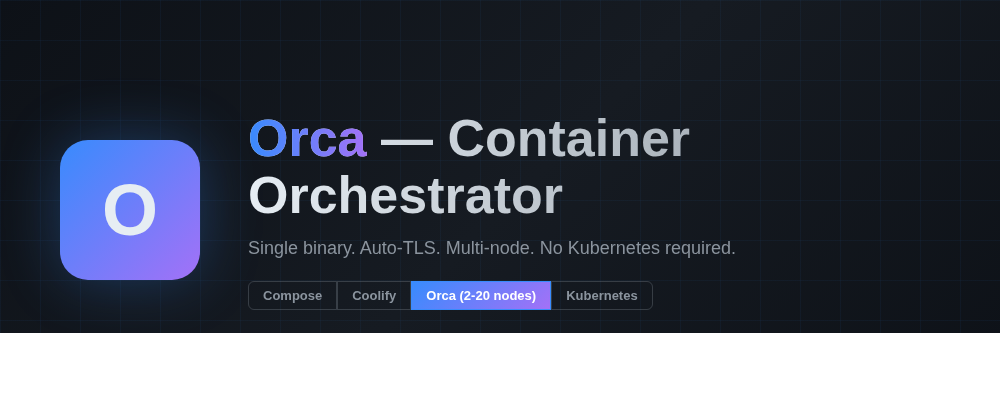
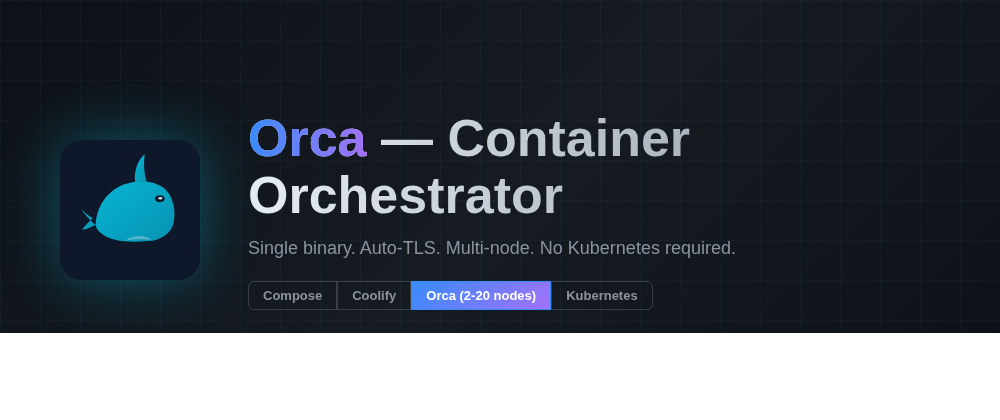
chore: add CLI backlog — multi-arg commands, auto-completion, remote redeploy routing

Changed region(s): [[0.062, 0.3095, 0.217, 0.681]]

diff --git a/assets/cover-devto.html b/assets/cover-devto.html
@@ -26,12 +26,11 @@
   }
   .logo {
     width: 140px; height: 140px;
-    background: linear-gradient(135deg, #388bfd, #a371f7);
-    border-radius: 28px;
-    display: flex; align-items: center; justify-content: center;
-    font-size: 72px; font-weight: 800;
     flex-shrink: 0;
-    box-shadow: 0 0 60px rgba(56,139,253,0.3);
+    filter: drop-shadow(0 0 30px rgba(6,182,212,0.4));
+  }
+  .logo img {
+    width: 100%; height: 100%;
   }
   .text h1 {
     font-size: 52px; font-weight: 800;
@@ -78,7 +77,7 @@
 <body>
   <div class="grid"></div>
   <div class="content">
-    <div class="logo">O</div>
+    <div class="logo"><img src="logo.svg" alt="Orca"></div>
     <div class="text">
       <h1><span>Orca</span> — Container Orchestrator</h1>
       <p>Single binary. Auto-TLS. Multi-node. No Kubernetes required.</p>

diff --git a/BACKLOG.md b/BACKLOG.md
@@ -166,6 +166,21 @@ to start without re-research.
 - **Log viewer.** Stream logs from any service (local or remote) in a
   TUI pane. Depends on WS log streaming (#12).
 
+## CLI
+
+- **Multi-argument commands.** `orca redeploy`, `orca stop`, `orca deploy`,
+  and `orca logs` should accept multiple service names in a single
+  invocation, e.g. `orca redeploy api web worker`. Today each command
+  takes only one service name, requiring separate calls.
+- **Shell auto-completion.** Generate completions for bash/zsh/fish via
+  `orca completions bash > /etc/bash_completion.d/orca`. Use clap's
+  built-in `clap_complete` crate. Should complete subcommands, flags,
+  and dynamically complete service names by querying the API.
+- **`orca redeploy` must route to the correct node.** Today `redeploy`
+  runs on master and tries to create the container locally even when
+  the service is placed on a remote agent. Should check placement and
+  dispatch via WS/heartbeat to the target node.
+
 ## Tags & project-level config
 
 - **Tags on nodes, services, and projects.** Free-form key-value labels
